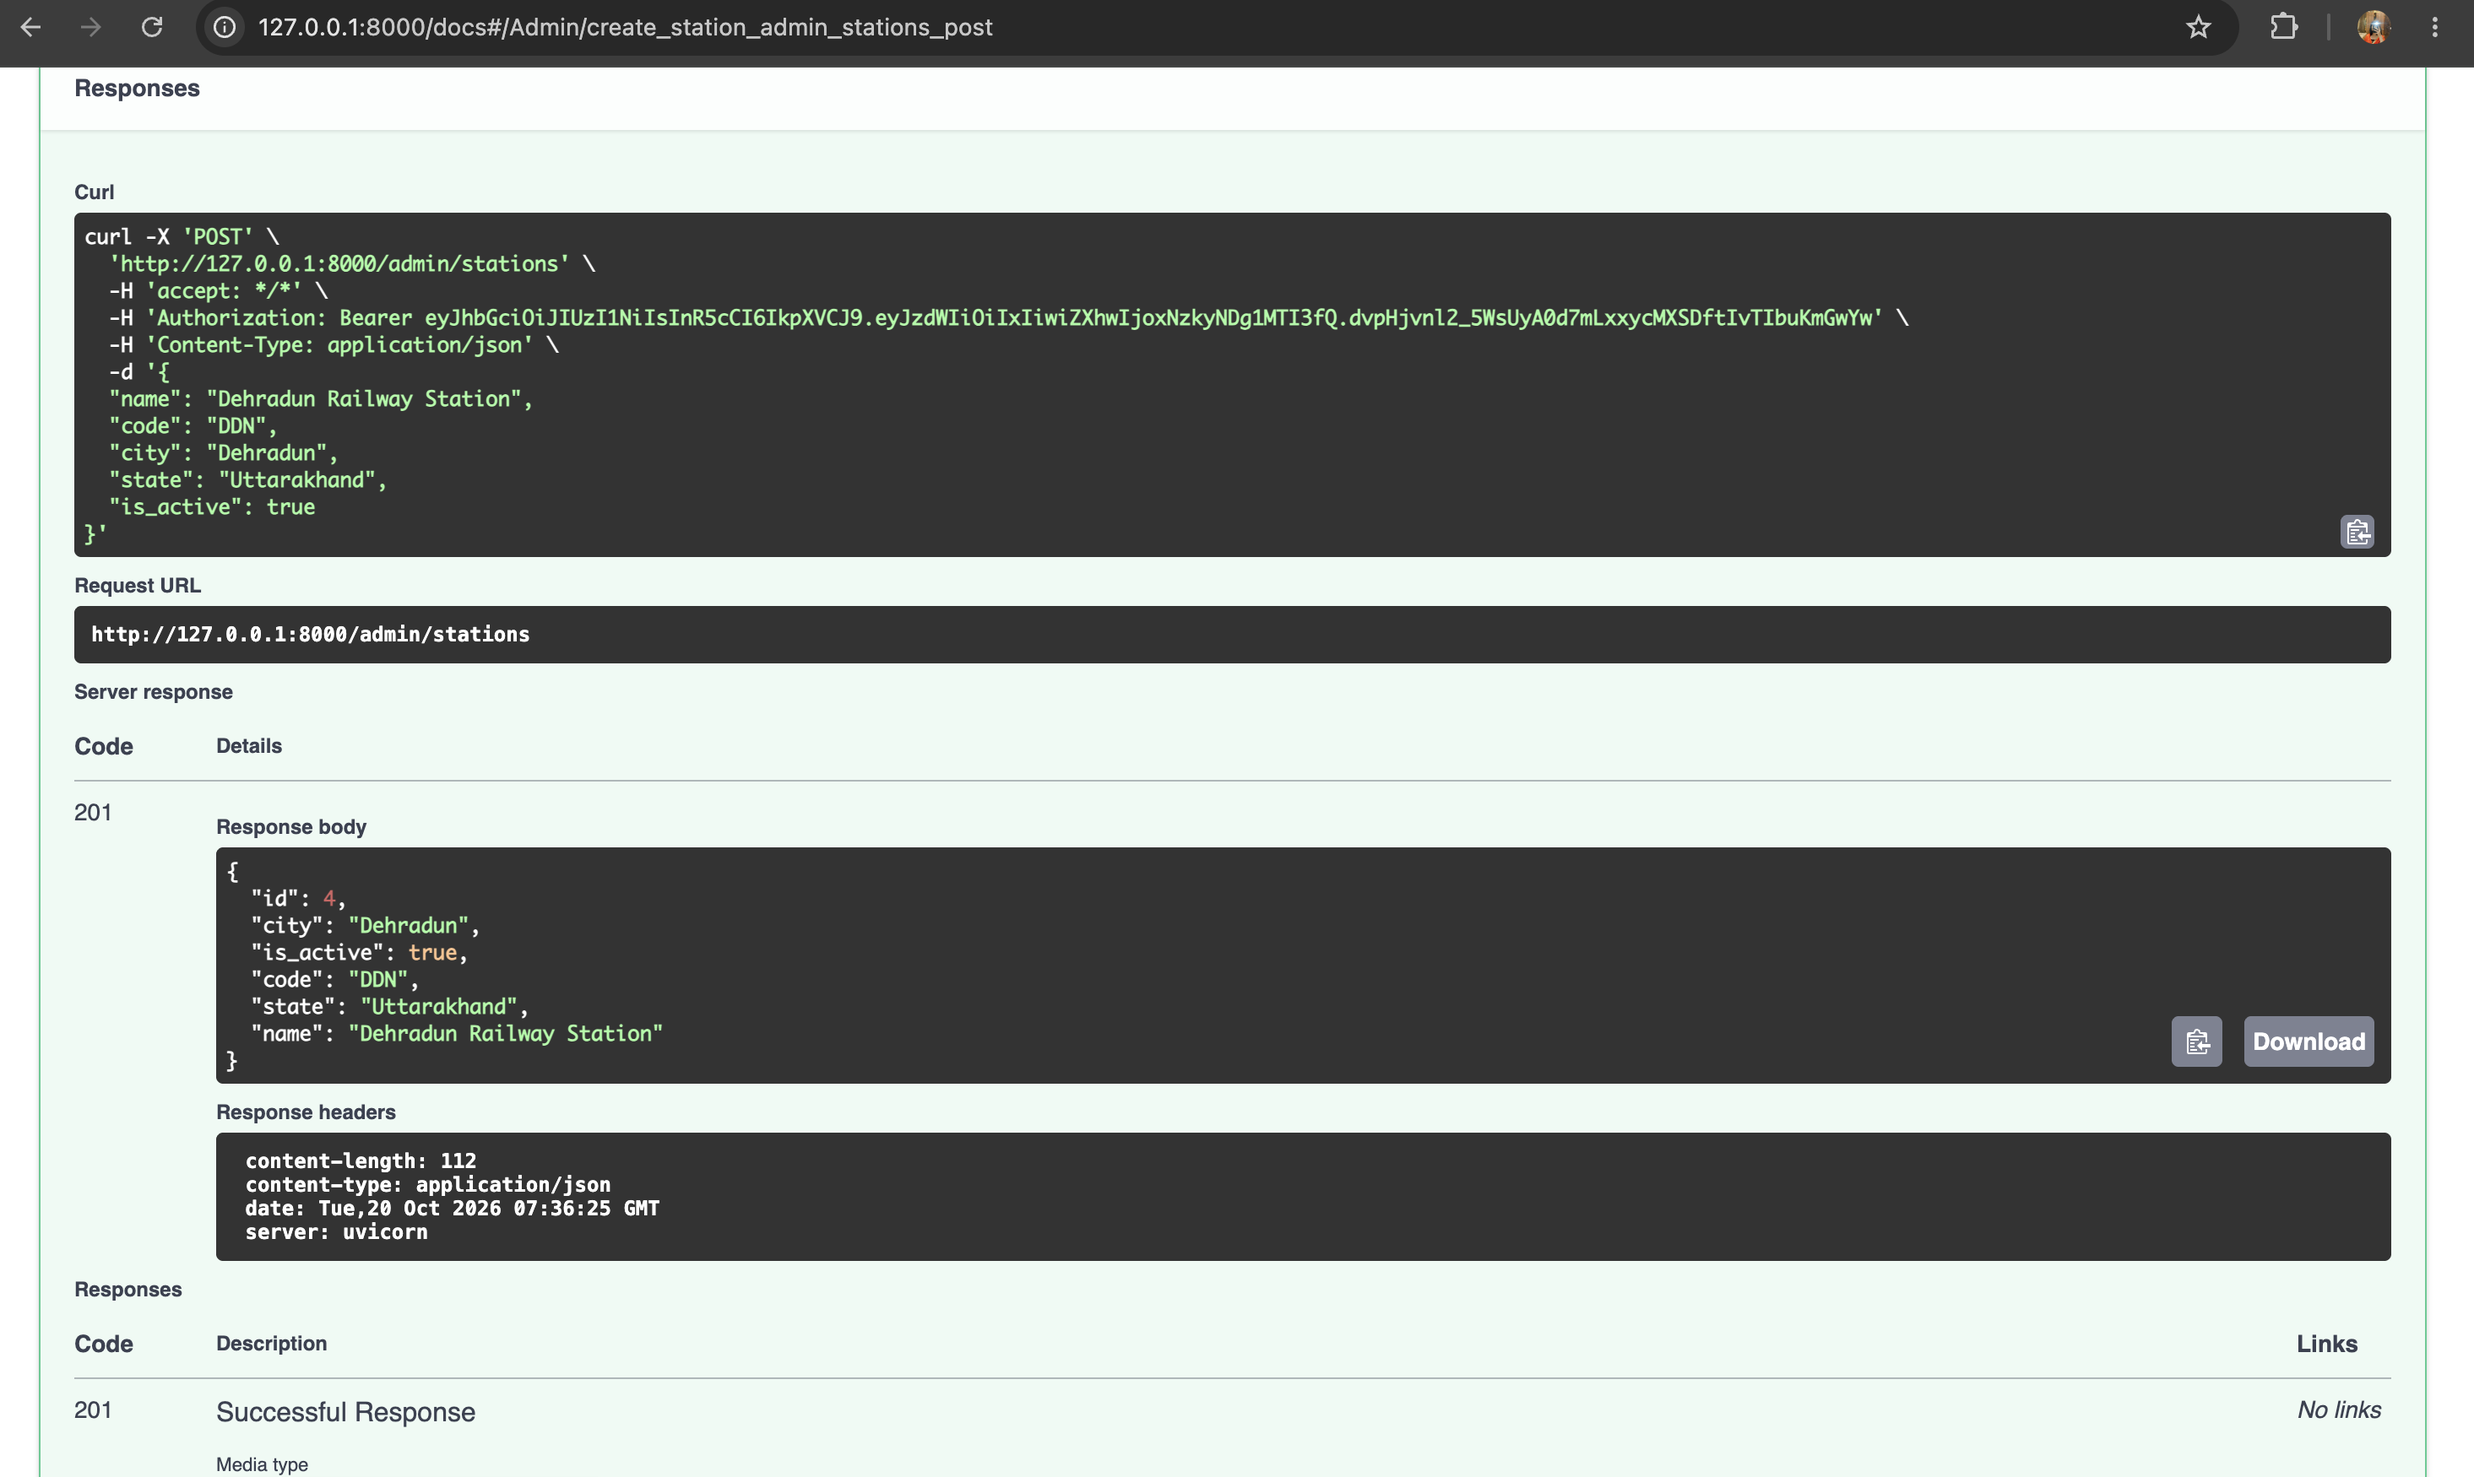
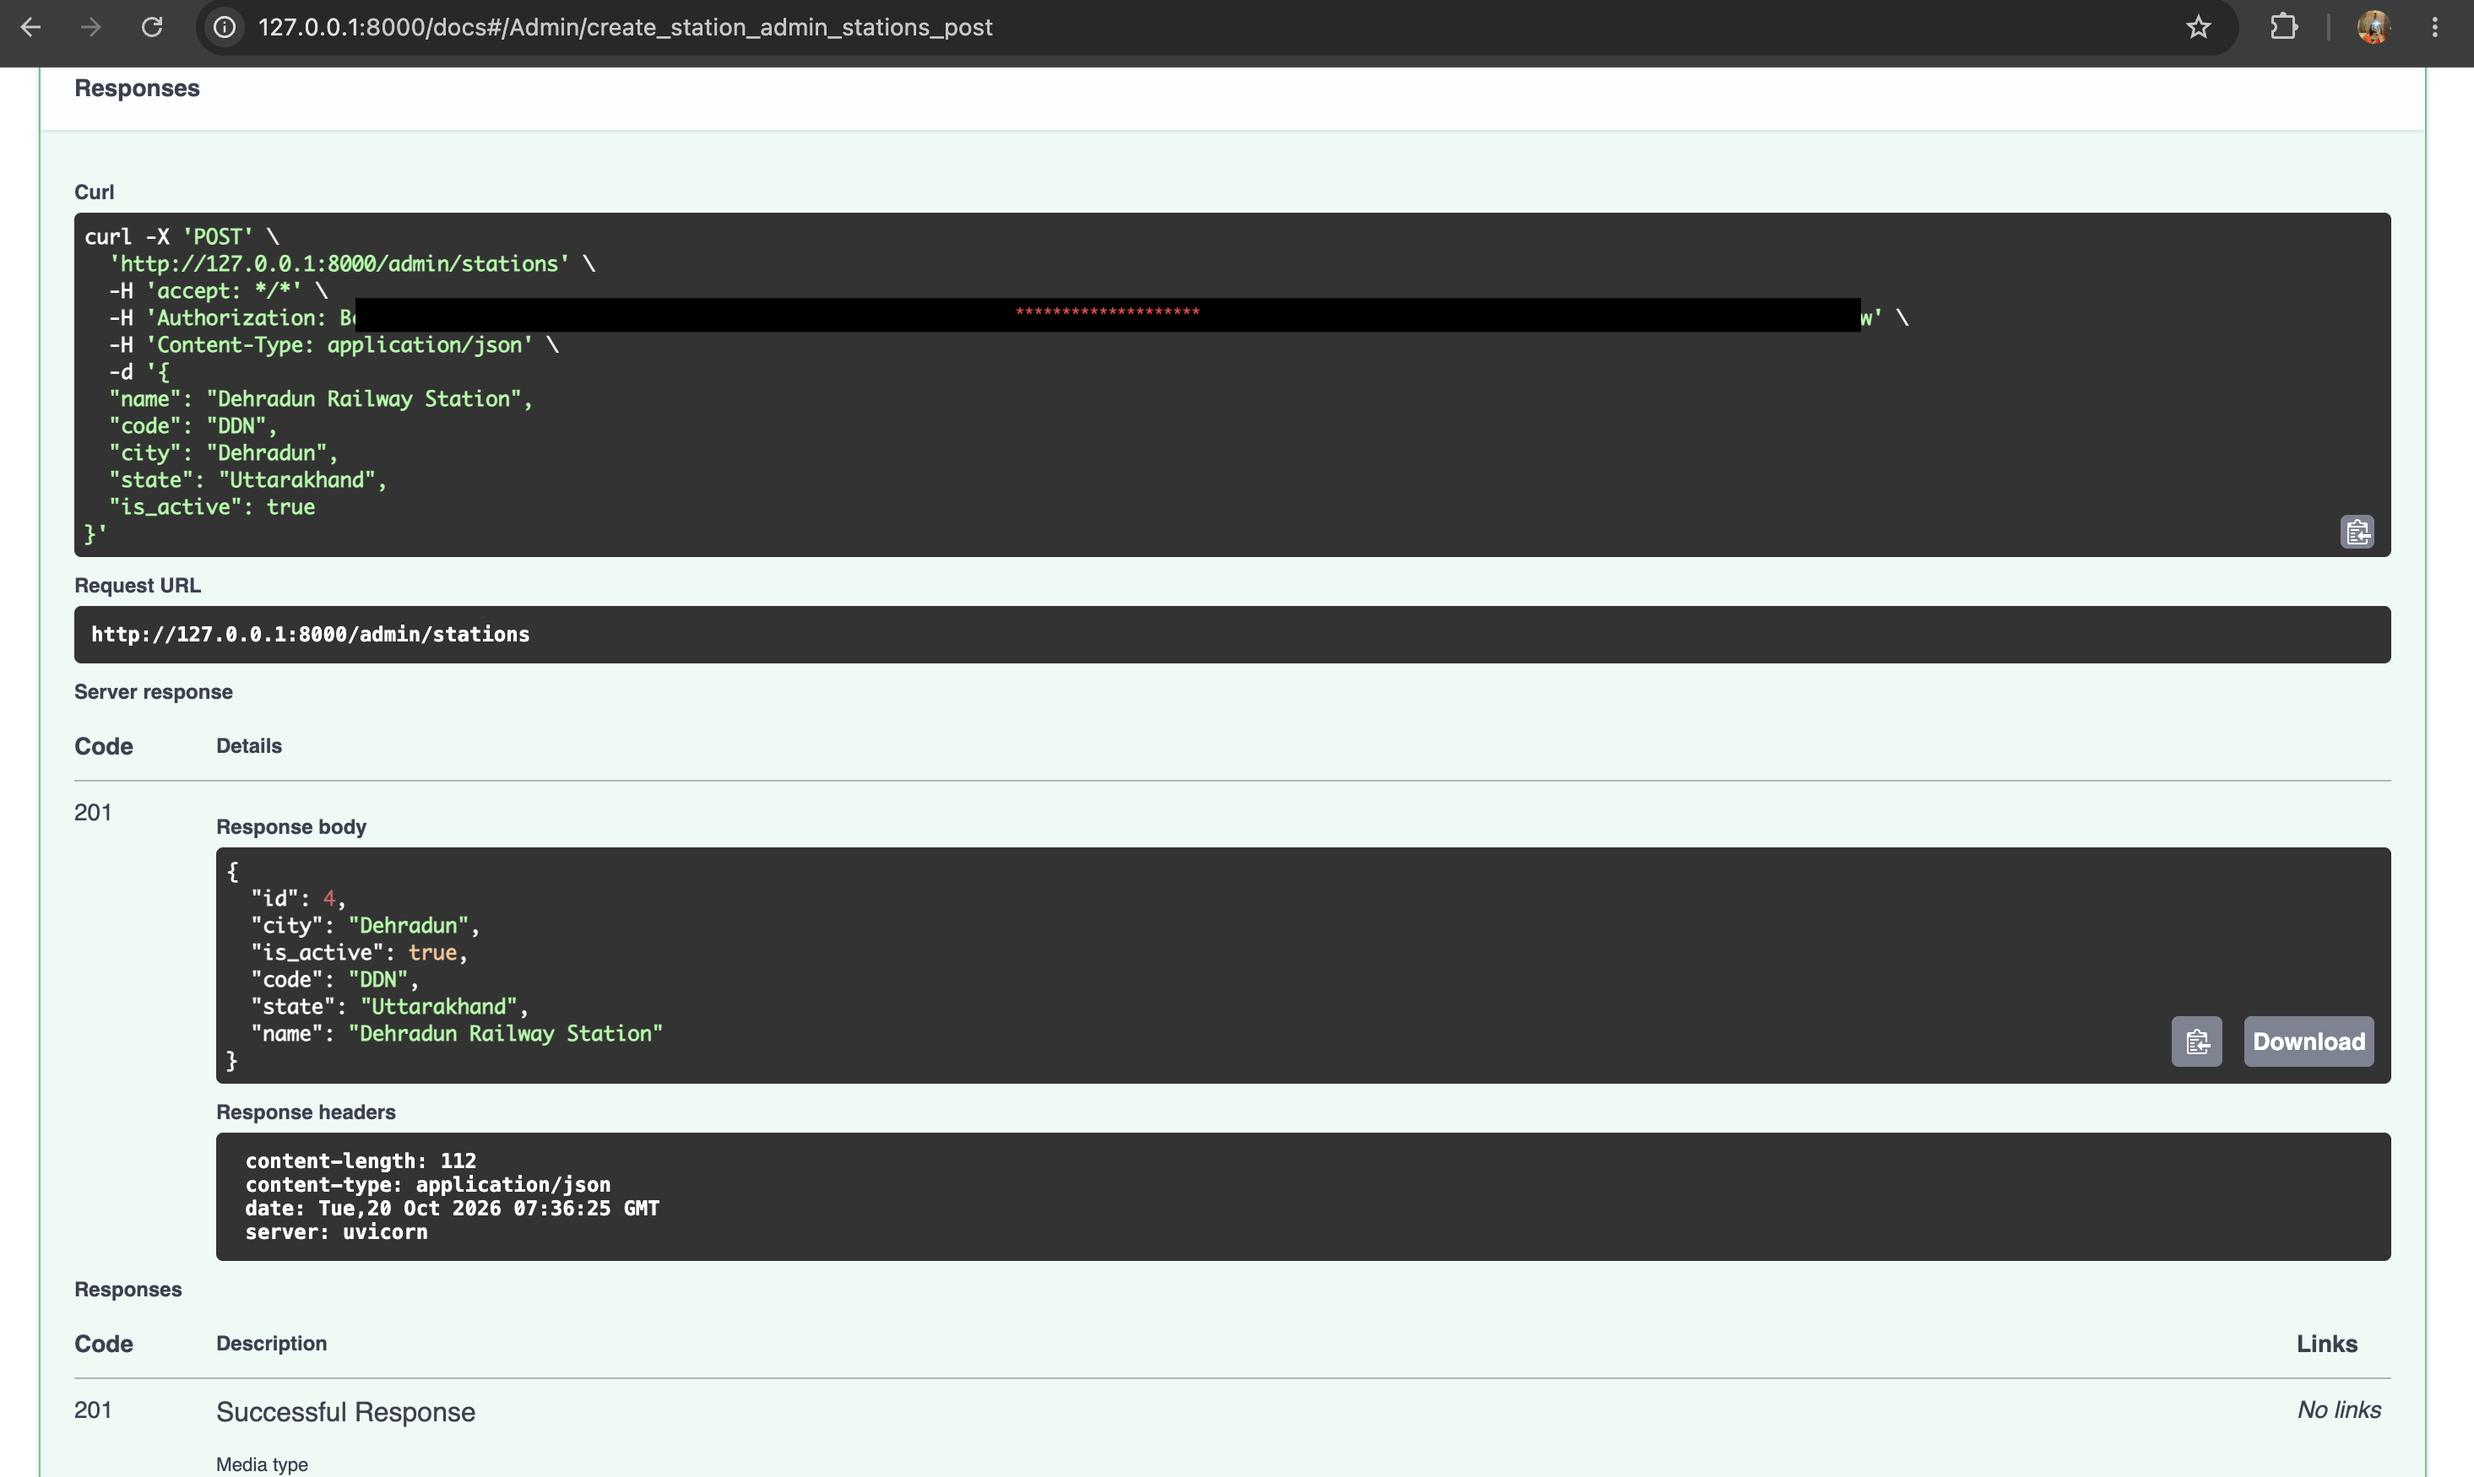
Update redacted API screenshots

Changed region(s): [[0.1242, 0.1851, 0.7765, 0.2469]]

diff --git a/README.md b/README.md
@@ -69,15 +69,17 @@ railconnect/
 ├── requirements.txt
 └── README.md
 
+```
+
 ## 📸 API Screenshots
 
 The following screenshots show the main RailConnect API workflows in Swagger UI:
 
 ### Authentication
 
-| Registration | Login | Profile response |
+| Registration | Login | Unauthorized request (401) |
 |---|---|---|
-| ![Passenger registration](screenshots/01-register.png) | ![Successful login](screenshots/02-login.png) | ![Authenticated profile response](screenshots/03-profile.png) |
+| ![Passenger registration](screenshots/01-register.png) | ![Successful login](screenshots/02-login.png) | ![Unauthorized request (401) response](screenshots/03-unauthorized.png) |
 
 ### Admin and train search
 
